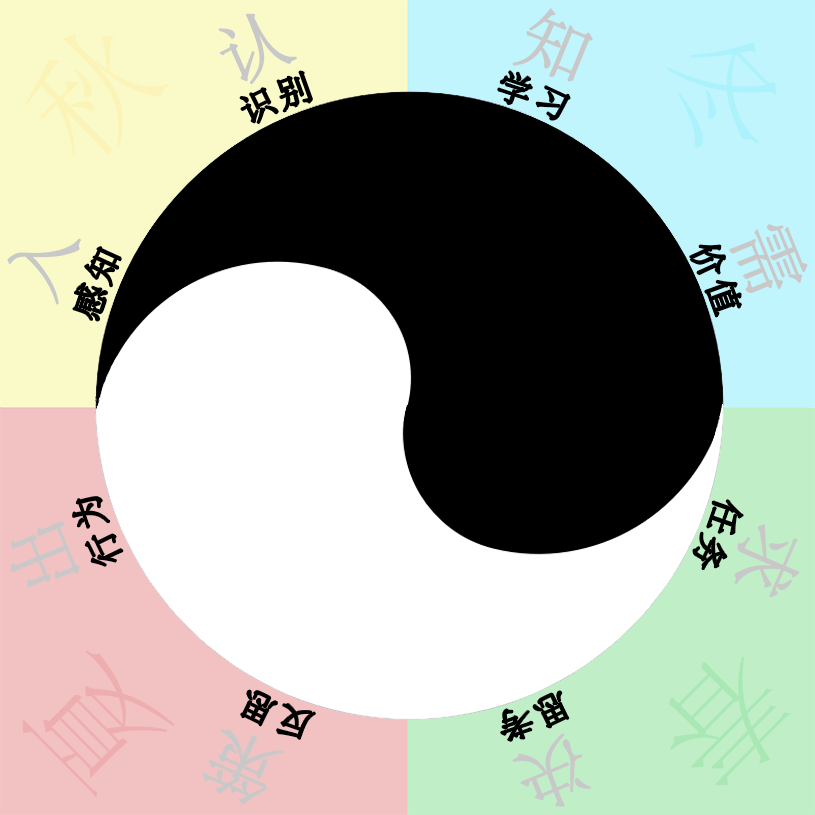
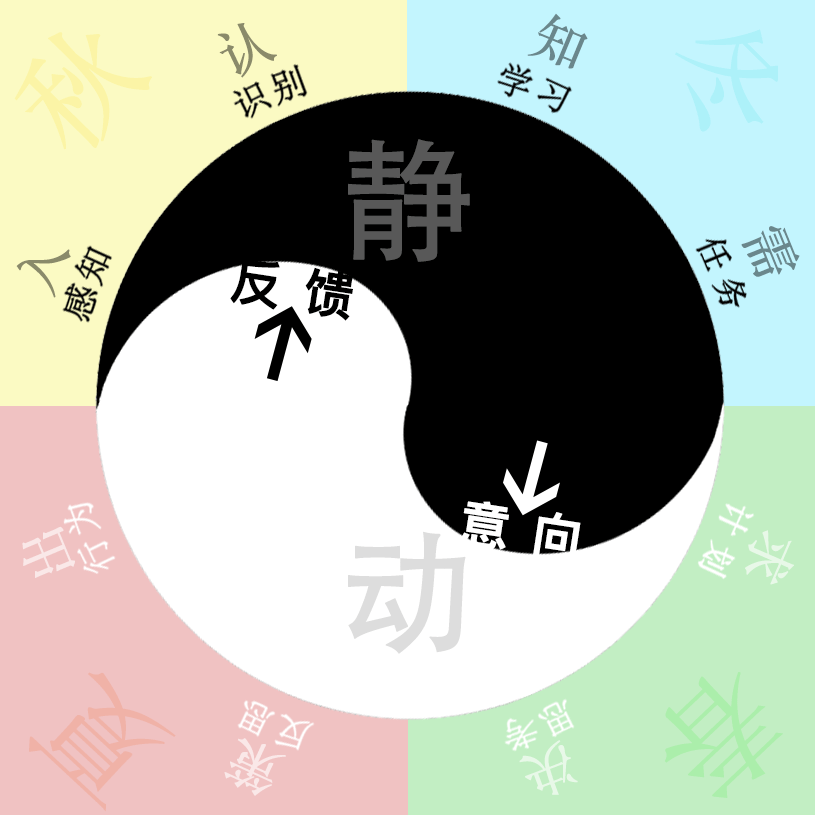
none

diff --git a/手写笔记/Note27.md b/手写笔记/Note27.md
@@ -399,8 +399,19 @@ for (AIMatchFoModel *pFo in rDemand.pFos) {
 | 27071 | 思维框架图v4 |
 | --- | --- |
 | 示图 | ![](assets/645_思维框架图v4.png) |
-| 静 | `1感知(入),2识别(认),3学习(知),4价值(需)` |
-| 动 | `5任务(求),6思考(决),7反思(策),8行为(出)` |
+| 动转静 | 其中`反馈`是动极转静,`被动反馈`等待; |
+| 静转动 | 其中`意向`是阴极转阳,`主动意向`追求; |
+
+| 27072 | 思维 | 代码 | 二 | 四 | 八 |
+| --- | --- | --- | --- | --- | --- |
+| 1 | 感知 | TCInput | 静 | 秋 | 入 |
+| 2 | 识别 | TCRecognition | 静 | 秋 | 认 |
+| 3 | 学习 | TCLearning | 静 | 冬 | 知 |
+| 4 | 任务 | TCDemand | 静 | 冬 | 需 |
+| 5 | 计划 | TCPlan | 动 | 春 | 求 |
+| 6 | 思考 | TCSolution | 动 | 春 | 决 |
+| 7 | 反思 | TCRefrection | 动 | 夏 | 策 |
+| 8 | 行为 | TCOut | 动 | 夏 | 出 |
 
 ***
 
